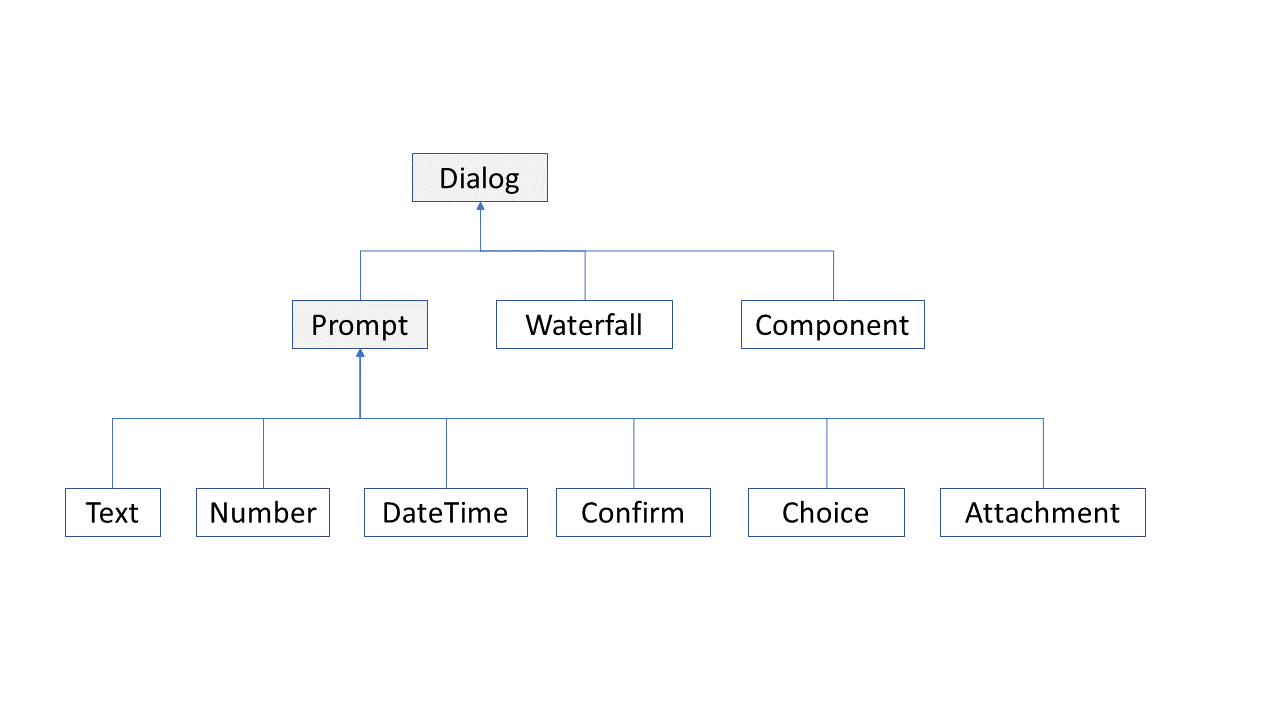
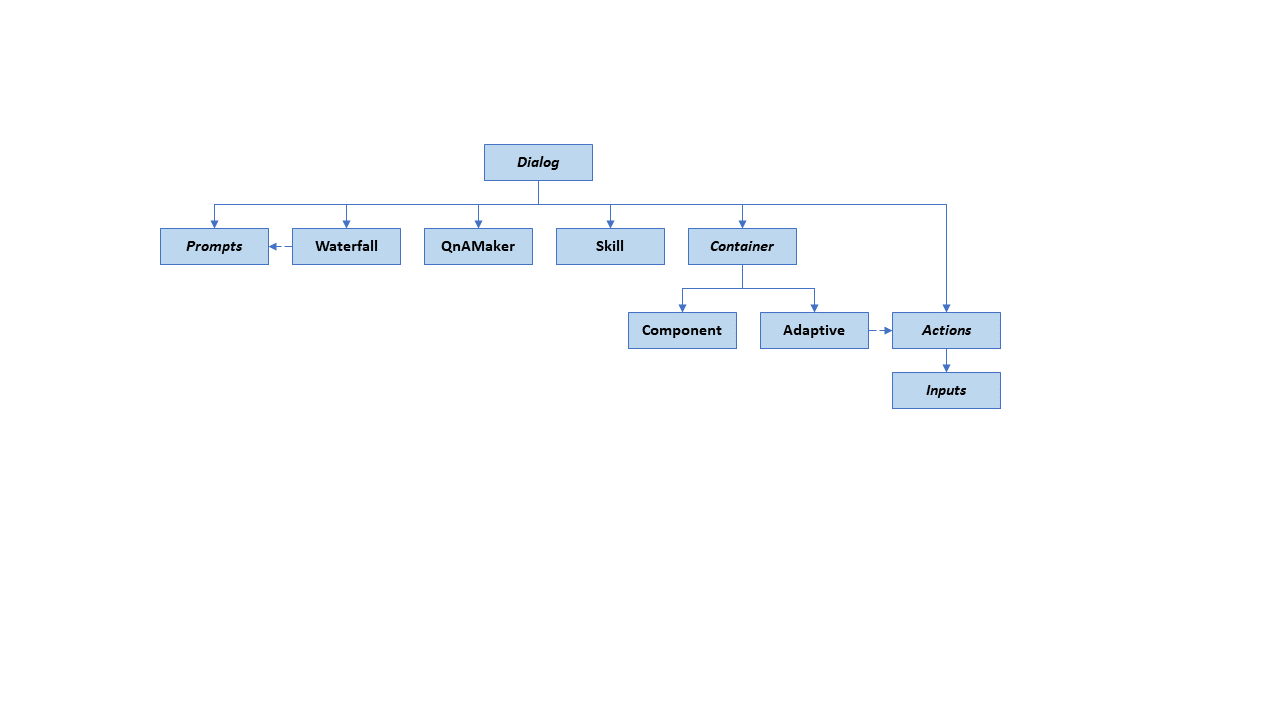
Start update to dialogs library topic for R9.

diff --git a/articles/v4sdk/bot-builder-concept-dialog.md b/articles/v4sdk/bot-builder-concept-dialog.md
@@ -2,12 +2,12 @@
 title: Dialogs within the Bot Framework SDK - Bot Service
 description: Describes what a dialog is and how it work within the Bot Framework SDK.
 keywords: conversation flow, prompt, dialog state, recognize intent, single turn, multiple turn, bot conversation, dialogs, prompts, waterfalls, dialog set
-author: johnataylor
-ms.author: johtaylo
+author: JonathanFingold
+ms.author: kamrani
 manager: kamrani
 ms.topic: article
 ms.service: bot-service
-ms.date: 05/23/2019
+ms.date: 05/14/2020
 monikerRange: 'azure-bot-service-4.0'
 ---
 
@@ -15,27 +15,52 @@ monikerRange: 'azure-bot-service-4.0'
 
 [!INCLUDE [applies-to-v4](../includes/applies-to.md)]
 
-*Dialogs* are a central concept in the SDK, and provide a useful way to manage a conversation with the user. Dialogs are structures in your bot that act like functions in your bot's program; each dialog is designed to perform a specific task, in a specific order. You can specify the order of individual dialogs to guide the conversation, and invoke them in different ways - sometimes in response to a user, sometimes in response to some outside stimuli, or from other dialogs.
+*Dialogs* are a central concept in the SDK, and provide a useful way to manage a conversation with the user. Dialogs are structures in your bot that act like functions in your bot's program; each dialog is designed to perform a specific task. You can specify the order of individual dialogs to guide the conversation, and invoke them in different ways - sometimes in response to a user, sometimes in response to some outside stimuli, or from other dialogs.
 
-The dialogs library provides a few built-in features, such as *prompts* and *waterfall dialogs* to make your bot's conversation easier to manage. [Prompts](#prompts) are used to ask for different types of information, such as text, a number, or a date. [Waterfall dialogs](#waterfall-dialogs) can combine multiple steps together in a sequence, allowing your bot to follow easily that predefined sequence and pass information along to the next step.
+The dialogs library provides a few built-in features to make your bot's conversation easier to manage.
 
-<!-- When we have samples for building your own, add links and one liner about them -->
+- [Waterfall](#waterfall-dialogs) and [prompt](#prompts) dialogs combine multiple steps together in a sequence, allowing your bot to follow easily that predefined sequence and pass information along to the next step.
+- [Component dialogs](#component-dialog) allow you to encapsulate and reuse sets of dialogs.
+- Adaptive, action, and input dialogs are an opinionated design for building sophisticated conversations.
+- Skill dialogs automate the management of skill bots from a skill consumer.
+
+This article describes the core features of the dialog library.
+
+### Adaptive dialogs
+
+Adaptive dialogs use an event driven model for conversations. They offer several built-in capabilities, including interruption handling, attaching a recognizer to each dialog, using the language generation system, and more. With adaptive dialogs, you can focus more on modeling the conversation and less on dialog mechanics.
+
+An adaptive dialog is part of the dialogs library and works with all of the other dialog types.
+You can easily build a bot that uses many dialog types.
+
+Consider using adaptive dialogs if your bot:
+
+- Requires the conversation flow to branch or loop based on business logic, user input, or other factors.
+- Needs to adjust to context, accept information in an arbitrary order, or allow one conversational thread to pause for a side-conversation and then pick back up again.
+- Needs context-specific language understanding models or needs to extract entity information from user input.
+- Would benefit from custom input processing or response generation.
+
+The [introduction to adaptive dialogs](../bot-builder-adaptive-dialog-introduction) and its associated topics describe the features supported by adaptive dialogs: language recognition and language generation support, use of triggers and actions to model conversation flow, and access to memory scopes.
 
 ## Dialogs and their pieces
 
-The dialogs library has a few additional pieces included to make dialogs more useful. Besides the different [types of dialogs](#dialog-types) discussed below, the library contains the idea of a *dialog set*, the *dialog context*, and the *dialog result*.
+<!-- TODO: review and rewrite post R9 -->
 
-*Dialog sets* are, in the simplest terms, a collection of dialogs. This can be things like prompts, waterfall dialogs, or [component dialogs](#component-dialog). Each of these are implementations of a dialog, and each are added to the dialog set with a specific string ID. When your bot wants to start a certain dialog or prompt within the dialog set, it uses that string ID to specify which dialog to use.
+The dialogs library has a few additional pieces included to make dialogs more useful. Besides the different [types of dialogs](#dialog-types) discussed below, the library contains the idea of a *dialog set*, *dialog context*, and *dialog result*, and *dialog manager*.
 
-*Dialog context* contains information pertaining to the dialog, and is used to interact with a dialog set from within your bot's turn handler. The dialog context includes the current turn context, the parent dialog, and the [dialog state](#dialog-state), which provides a method for preserving information within the dialog. The dialog context allows you to start a dialog with its string ID or continue the current dialog (such as a waterfall dialog that has multiple steps).
+A *dialog set* is a collection of dialogs. Each dialog instance is added to the dialog set with an ID unique to that set. When your bot wants to start a certain dialog or prompt within the dialog set, it uses that ID to specify which dialog to use. Both adaptive and component dialogs contain an inner dialog set.
+
+A *dialog context* contains information pertaining to a dialog set, and is used within the framework to interact with those dialogs. The dialog context includes the current turn context, the parent dialog, and the [dialog state](#dialog-state), which provides a method for preserving information within the dialog. The dialog context allows you to start a dialog with its string ID or continue the current dialog (such as a waterfall dialog that has multiple steps).
 
 When a dialog ends, it can return a *dialog result* with some resulting information from the dialog. This is returned to let the calling method see what happened within the dialog and save the information to some persisted location, if desired.
 
+A *dialog manager* automates many of the dialog management tasks for you. To run an adaptive dialog (or another dialog that contains an adaptive dialog), you must start the dialog from a dialog manager.
+
 ## Dialog state
 
-Dialogs are an approach to implementing a multi-turn conversation, and as such, they are an example of a feature in the SDK that relies on persisted state across multiple turns. Without state in dialogs, your bot wouldn't know where in the dialog set it is or what information it has already gathered.
+Dialogs are an approach to implementing a multi-turn conversation, and as such, they rely on persisted state across multiple turns. Without state in dialogs, your bot wouldn't know where it is in the conversation or what information it has already gathered. Again, a dialog manager automates many of these tasks for you.
 
-A dialog based bot typically holds a dialog set collection as a member variable in its bot implementation. That dialog set is created with a handle to an object called an accessor that provides access to persisted state. For background on state within bots, see [managing state](bot-builder-concept-state.md).
+A dialog based bot can hold a dialog set collection as a member variable in its bot implementation. That dialog set is created with a handle to an object called an accessor that provides access to persisted state. For background on state within bots, see [managing state](bot-builder-concept-state.md). The dialog manager manages state for a
 
 Within the bot’s on turn handler, the bot initializes the dialog subsystem by calling *create context* on the dialog set, which returns a *dialog context*. That dialog context contains the necessary information needed by the dialog.
 
@@ -43,9 +68,13 @@ The creation of a dialog context requires state, which is accessed with the acce
 
 ## Dialog types
 
-Dialogs come in a few different types: prompts, waterfall dialogs, and component dialogs, as shown in this class hierarchy.
+Dialogs come in a few different types as shown in this class hierarchy.
 
 ![dialog classes](media/bot-builder-dialog-classes.png)
+
+Prompt dialogs are designed to work with waterfall dialogs.
+Action and input dialogs are designed to work with adaptive dialogs.
+The skill and QnA Maker dialogs wrap skill and QnA Maker features as dialogs.
 
 ### Prompts
 
@@ -206,7 +235,12 @@ A dialog can start a new dialog within the same dialog set by calling the dialog
 
 Therefore, you can create a branch within your conversation flow by including a step in one dialog that can conditionally choose a dialog to start out of a set of available dialogs.
 
+## Additional information
+
+- For more about adaptive dialogs, see the [introduction to adaptive dialogs](../bot-builder-adaptive-dialog-Introduction).
+- For information about skills, see [about skills](skills-conceptual).
+
 ## Next steps
 
 > [!div class="nextstepaction"]
-> [Use dialog library to gather user input](bot-builder-prompts.md)
+> [Use the dialog library to gather user input](bot-builder-prompts.md)
